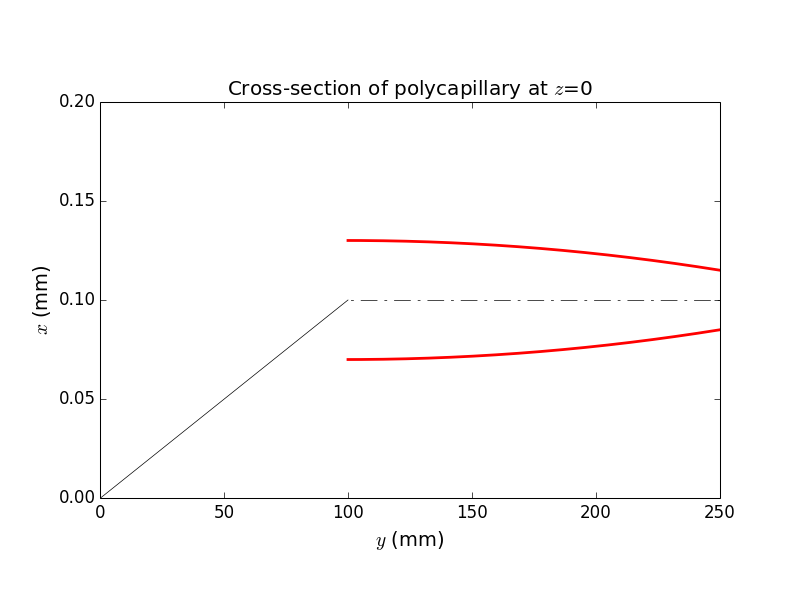
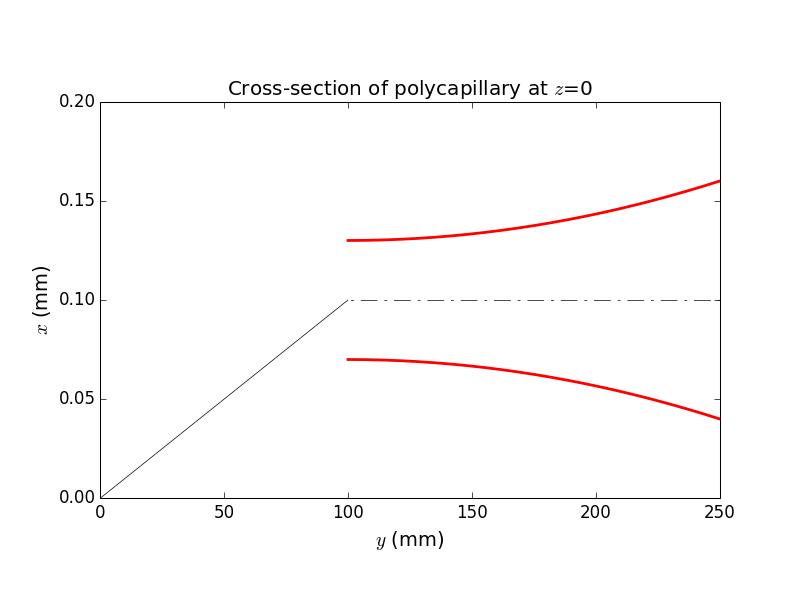
Conical-expanding

diff --git a/StraightCapillary.py b/StraightCapillary.py
@@ -106,7 +106,7 @@ def build_beamline(nrays=1000):
     capillary = StraightCapillary(
         beamLine, 'StraightCapillary', [0,0,0], roll=roll,
         material=mGlass, limPhysY=[rSample*np.cos(alpha), f],
-        f=f, rSample=rSample, entranceAlpha=alpha, rIn=r0, rOut=r0/2)
+        f=f, rSample=rSample, entranceAlpha=alpha, rIn=r0, rOut=r0*2)
     beamLine.capillaries.append(capillary)         
     
     if beamLine.xzMax < capillary.b0:
@@ -186,4 +186,4 @@ def main():
     
 if __name__ == '__main__':
     plot2D()    
-#    main()
+    main()
